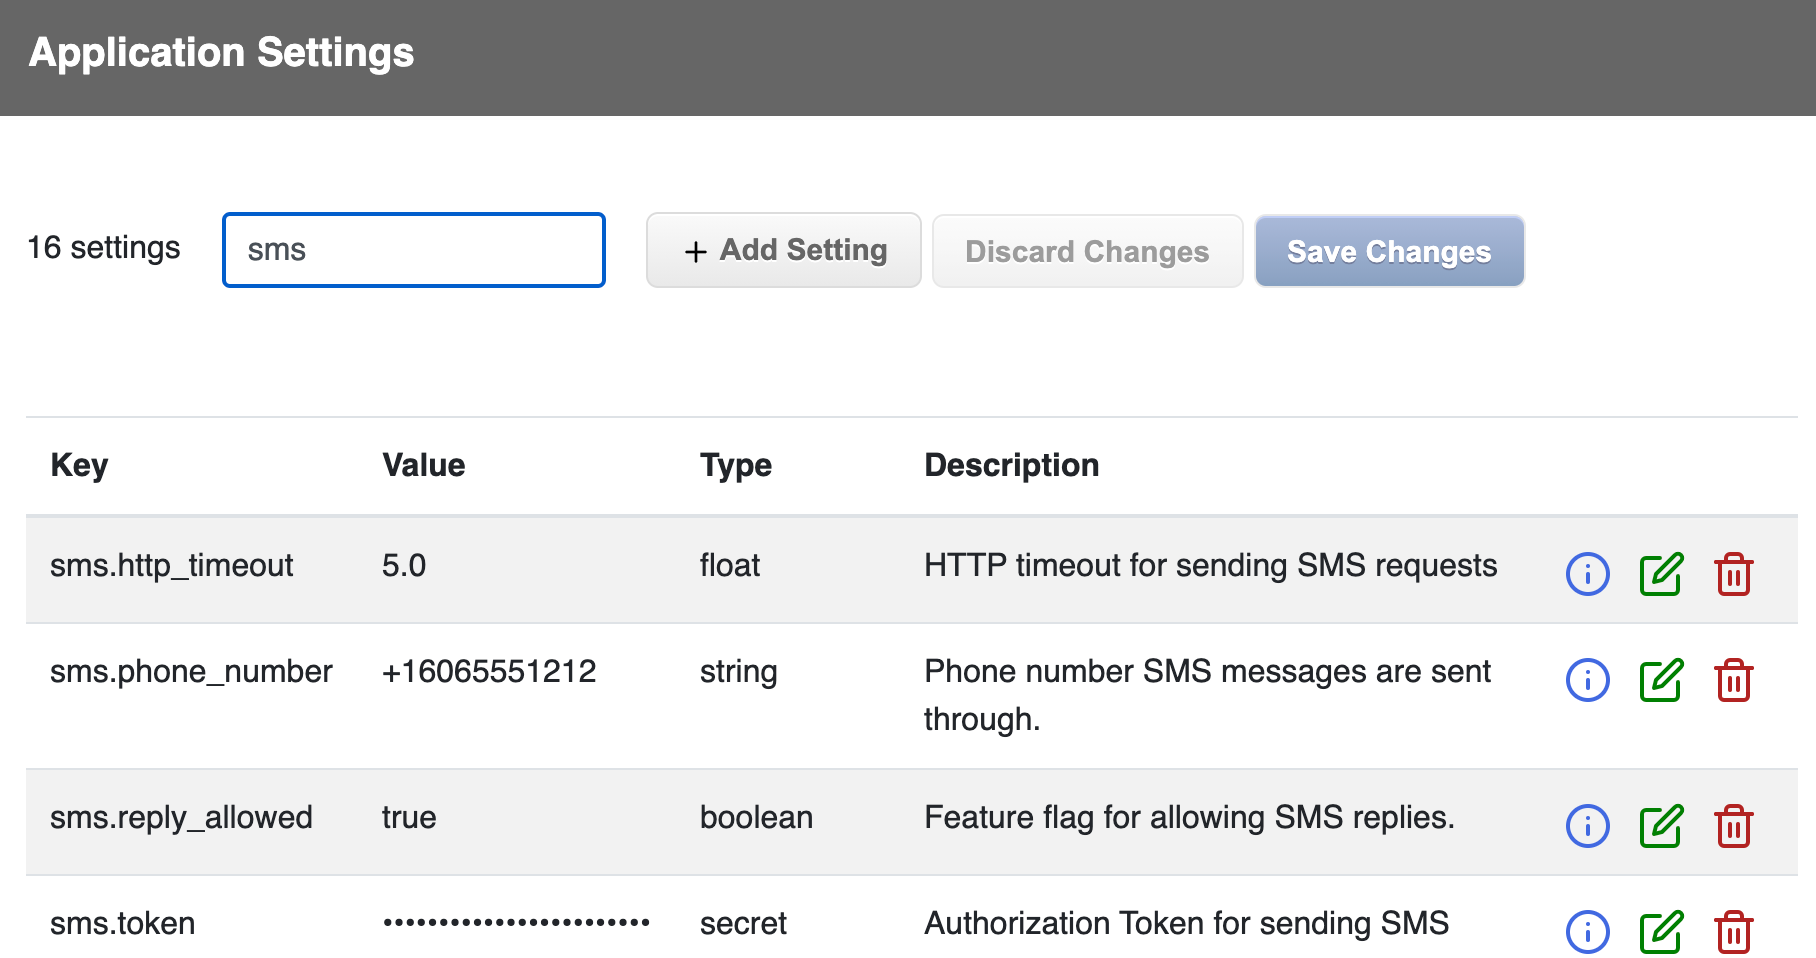
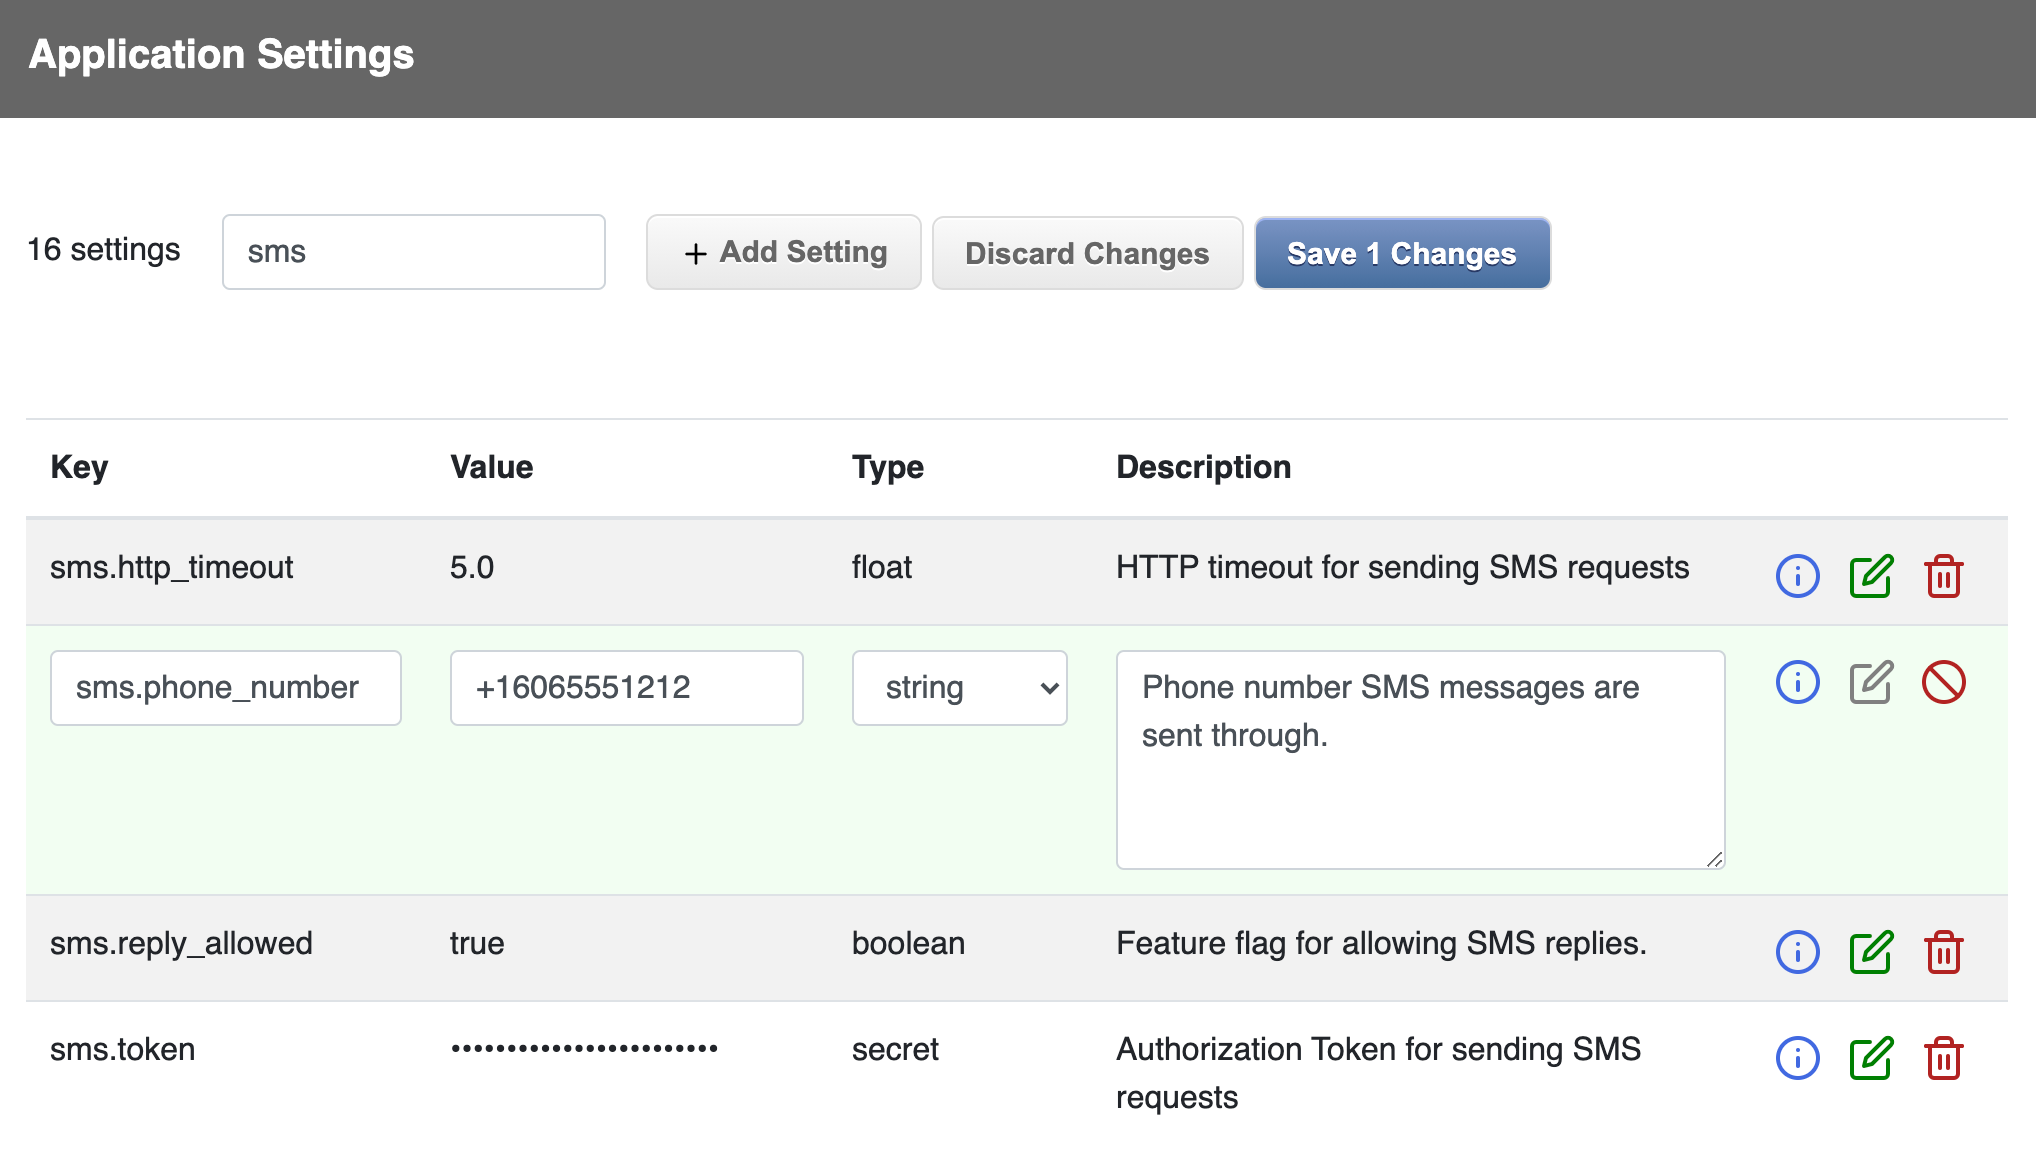
ui tweaks

diff --git a/app/helpers/super_settings/scripts.js b/app/helpers/super_settings/scripts.js
@@ -69,7 +69,7 @@
   function settingInputHTML(type, fieldId, fieldName) {
     var html = null;
     if (type === "array") {
-      html = '<textarea name="' + fieldName + '" id="' + fieldId + '" rows="8" class="form-control"></textarea>';
+      html = '<textarea name="' + fieldName + '" id="' + fieldId + '" rows="8" class="form-control" placeholder="one entry per line"></textarea>';
     } else if (type === "boolean") {
       html = '<div class="form-check checkbox">'
       html += '<input type="checkbox" name="' + fieldName + '" id="' + fieldId + '" value="true">'
@@ -133,6 +133,7 @@
     }
     bindSettingControlEvents(settingRow);
     disableSubmitFormWithReturnKey(settingRow);
+    filterSettings(document.querySelector("#filter").value);
     settingRow.scrollIntoView({block: "nearest"});
     enableSaveButton();
   }
@@ -215,12 +216,17 @@
     settingRow.querySelector("td").style.textDecoration = "inherit";
     settingRow.querySelector(".js-cancel-remove-setting").style.display = "none";
     settingRow.querySelector(".js-remove-setting").style.display = "inline-block";
+    filterSettings(document.querySelector("#filter").value);
     enableSaveButton();
   }
 
-  function filterSettings(event) {
+  function filterListener(event) {
+    filterSettings(event.target.value);
+  }
+
+  function filterSettings(filterText) {
     var filters = [];
-    event.target.value.split(" ").forEach(function(filter) {
+    filterText.split(" ").forEach(function(filter) {
       filter = filter.toUpperCase();
       filters.push(function(tr) {
         text = "";
@@ -372,17 +378,22 @@
     return parent.querySelectorAll("a[href], area[href], button, input:not([type=hidden]), select, textarea, iframe, [tabindex], [contentEditable=true]")
   }
 
+  function noOp(event) {
+    event.preventDefault();
+  }
+
   function bindSettingControlEvents(parent) {
     addListeners(parent.querySelectorAll(".js-remove-setting"), "click", removeSetting);
     addListeners(parent.querySelectorAll(".js-cancel-remove-setting"), "click", cancelRemoveSetting);
     addListeners(parent.querySelectorAll(".js-edit-setting"), "click", editSetting);
     addListeners(parent.querySelectorAll(".js-cancel-setting"), "click", restoreSetting);
     addListeners(parent.querySelectorAll(".js-modal-link"), "click", showModal);
+    addListeners(parent.querySelectorAll(".js-no-op"), "click", noOp);
     addListeners(parent.querySelectorAll(".js-setting-value-type"), "change", changeSettingType);
   }
 
   docReady(function() {
-    addListener(document.querySelector("#filter"), "input", filterSettings);
+    addListener(document.querySelector("#filter"), "input", filterListener);
     addListener(document.querySelector("#add-setting"), "click", addSetting);
     addListener(document.querySelector("#discard-changes"), "click", refreshPage);
     addListener(document.querySelector("#settings-form"), "submit", disableLeavePage);

diff --git a/app/helpers/super_settings/settings_helper.rb b/app/helpers/super_settings/settings_helper.rb
@@ -94,5 +94,10 @@ module SuperSettings
         "over #{pluralize((hours / 24).floor, "day")} ago"
       end
     end
+
+    def super_settings_formatted_time(time)
+      return unless time
+      "#{I18n.localize(time, format: :long)} #{Time.zone.tzinfo.abbreviation(time)}"
+    end
   end
 end

diff --git a/README.md b/README.md
@@ -130,11 +130,28 @@ The gem ships with a Rails engine that provides a web UI and a REST API for crea
 mount SuperSettings::Engine => "/settings"
 ```
 
+See the configuration section below for information about how to secure the controller endpoints. The engine provides no mechanism for security out of the box, but it is designed to seamlessly integrate with your application's existing authentication and authorization mechanism.
+
+You can also easily implement your own UI if you need to since the core data structure is just an ActiveRecord model.
+
 #### Web UI
 
-TODO
+The Web UI provides all the functionality to add, update, and delete settings.
 
 ![Web UI](web_ui.png)
+
+You can save multiple settings at once. So that if you have settings that need to be changed together, you can be assured they will all be saved in a single transaction.
+
+The Web UI is fully self contained and has no external dependencies. However, you can change the layout used by the controller (see the configuration section below for an example). If you do this, you will be responsible for providing the CSS styles for the buttons, table rows and the form controls. The CSS class names used by the default layout are compatible with the class names defined in the [Bootstrap library](https://getbootstrap.com/).
+
+You can see the Web UI in action if you clone this repository and then run:
+
+```bash
+bin/rails db:migrate
+bin/rails s
+```
+
+Then go to http://localhost:3000/settings in your browser.
 
 #### REST API
 
@@ -274,8 +291,10 @@ SuperSettings.configure do |config|
   config.controller.superclass = Admin::BaseController
 
   # Add additional code to the controller. In this case we are adding code to ensure only
-  # admins can access the functionality.
+  # admins can access the functionality and changing the layout to use one defined by the application.
   config.controller.enhance do
+    self.layout = "admin"
+
     before_action do
       require_admin
     end
